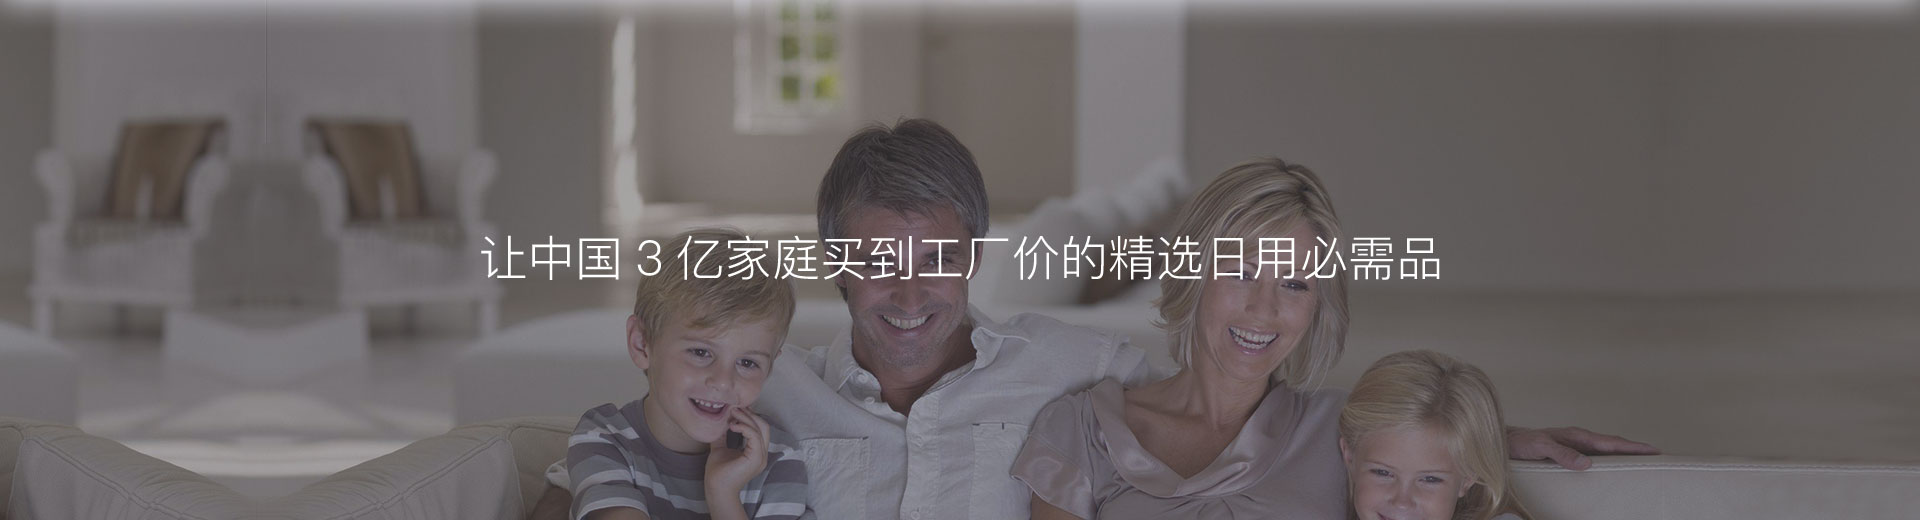
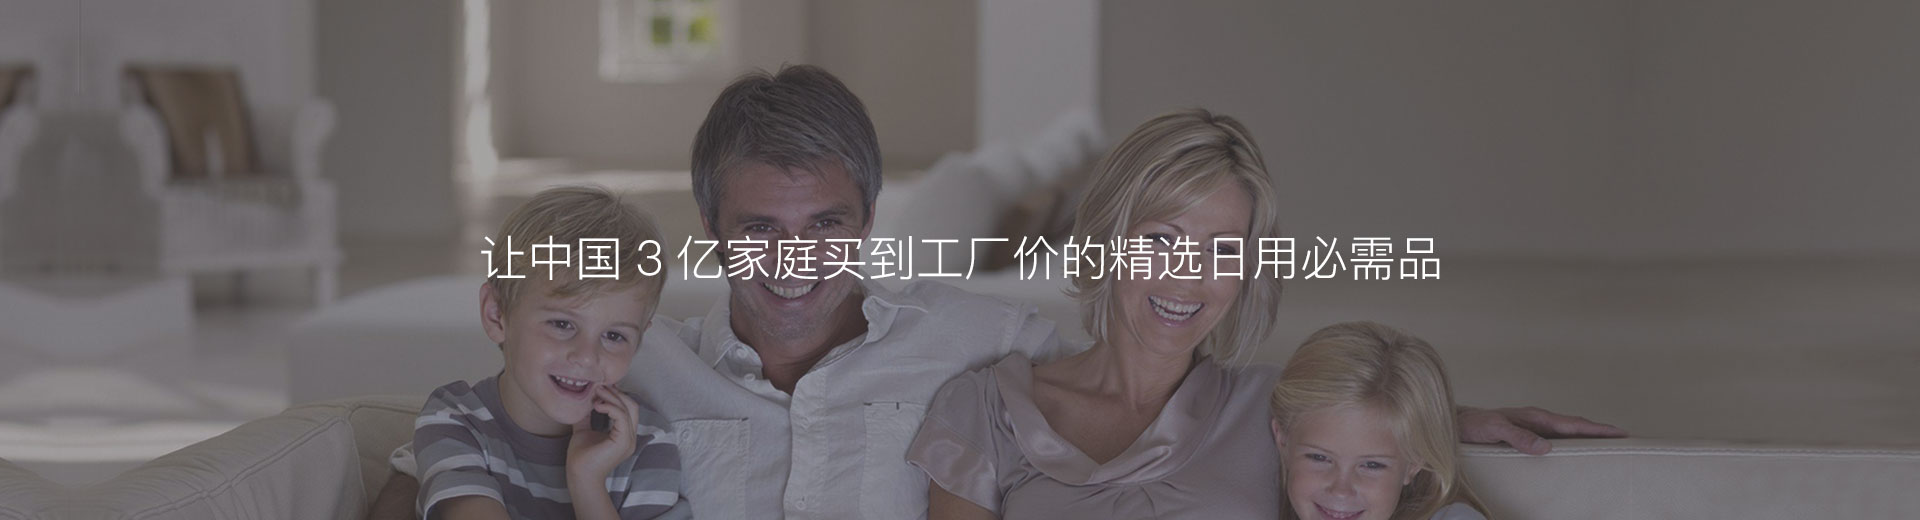
修改官网

diff --git a/index.html b/index.html
@@ -3,7 +3,6 @@
 
 <head>
     <meta charset="UTF-8">
-    <meta name="viewport" content="width=device-width, initial-scale=1.0">
     <meta http-equiv="X-UA-Compatible" content="ie=edge">
     <title>趣买货</title>
     <link rel="stylesheet" href="./package/Swiper-2.7.6/dist/idangerous.swiper.css">
@@ -32,17 +31,16 @@
         <div class="swiper-container">
             <div class="swiper-wrapper">
                 <div class="swiper-slide first">
-                    <div class="content">
+                    <!-- <div class="content">
                         <p style="font-size: 32px;font-weight:bold;">趣买货</p>
                         <p style="font-size: 48px;font-weight: 500;">底薪制社交电商平台</p>
                         <p style="font-size: 24px;">让百姓生活省钱，购物赚钱</p>
                         <img class="tissue" src="./image/index/tissue.png" alt="">
                         <img class="strawberry" src="./image/index/strawberry.png" alt="">
                         <img class="washing-liquid" src="./image/index/washing-liquid.png" alt="">
-                    </div>
+                    </div> -->
                 </div>
                 <div class="swiper-slide second">
-
                 </div>
             </div>
         </div>

diff --git a/css/index.css b/css/index.css
@@ -6,9 +6,12 @@
     height: 100%;
 }
 .banner .first {
-    background: #f7ecdc;
+    background: url('../image/index/banner1.jpg') center;
 }
-.banner .first .content {
+.banner .second {
+    background: url('../image/index/banner2.jpg') center;
+}
+/* .banner .first .content {
     position: relative;
     height: 100%;;
     padding-top: 143px;
@@ -32,7 +35,7 @@
     position: absolute;
     right: 93px;
     bottom: 0;
-}
+} */
 
 
 /* 趣买货介绍 */

diff --git a/about.html b/about.html
@@ -3,7 +3,6 @@
 
 <head>
     <meta charset="UTF-8">
-    <meta name="viewport" content="width=device-width, initial-scale=1.0">
     <meta http-equiv="X-UA-Compatible" content="ie=edge">
     <title>趣买货</title>
     <link rel="stylesheet" href="https://fonts.googleapis.com/css?family=Noto+Sans+SC:100,300,400,500,700,900">

diff --git a/culture.html b/culture.html
@@ -3,7 +3,6 @@
 
 <head>
     <meta charset="UTF-8">
-    <meta name="viewport" content="width=device-width, initial-scale=1.0">
     <meta http-equiv="X-UA-Compatible" content="ie=edge">
     <title>趣买货</title>
     <link rel="stylesheet" href="https://fonts.googleapis.com/css?family=Noto+Sans+SC:100,300,400,500,700,900">
